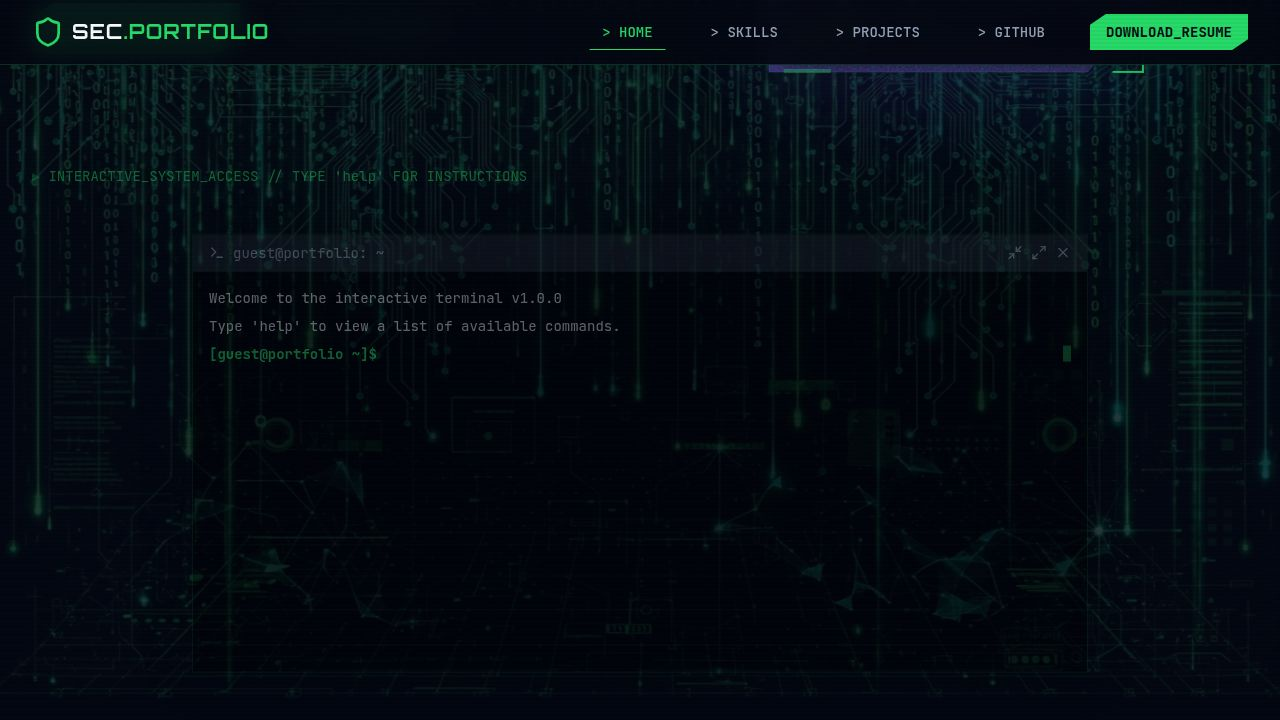
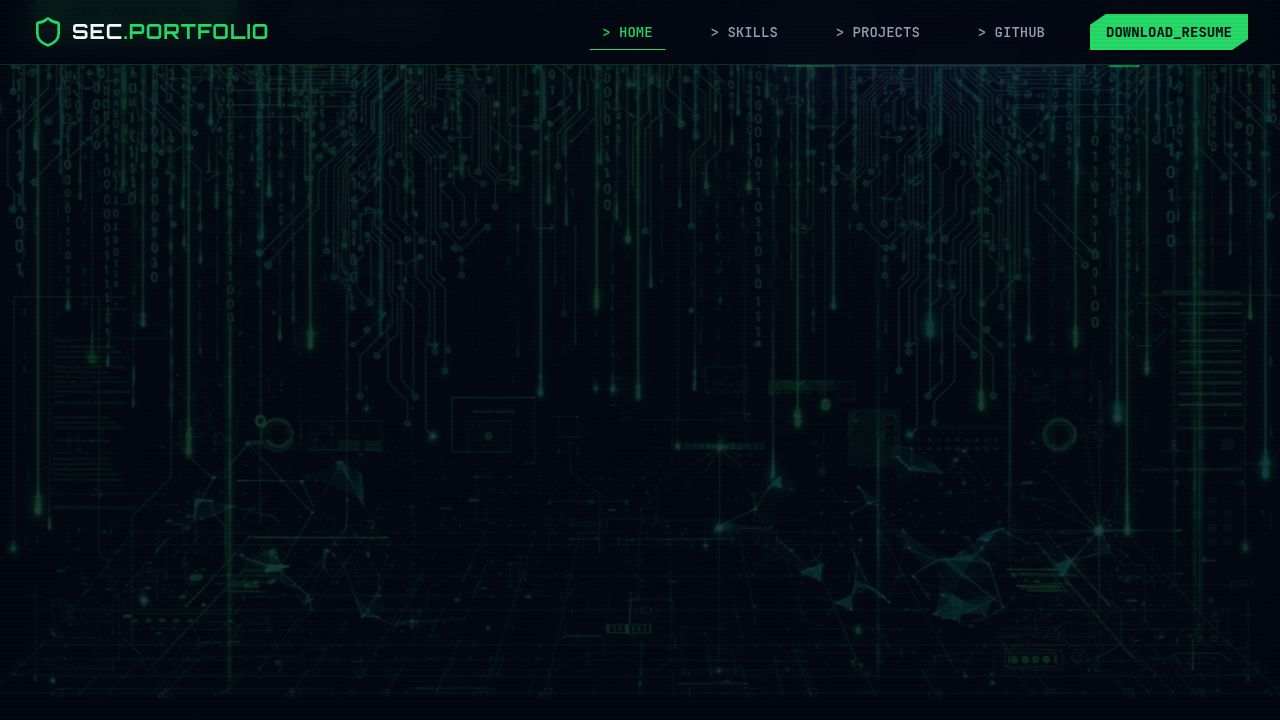
Restore the interactive whoami card and update terminal commands
Replace "SECURE THE FUTURE" heading and status display with an interactive whoami terminal card, including updated commands and professional details.

Replit-Commit-Author: Agent
Replit-Commit-Session-Id: d9829147-8b4d-47b9-a2e0-29cf5eb42337
Replit-Commit-Checkpoint-Type: full_checkpoint
Replit-Commit-Event-Id: 51227539-02d4-4bf1-9b71-4f3929cbaac4
Replit-Commit-Screenshot-Url: https://storage.googleapis.com/screenshot-production-us-central1/c8f694e6-4649-4a96-990e-c1d96851a21d/d9829147-8b4d-47b9-a2e0-29cf5eb42337/ciMmzyu
Replit-Helium-Checkpoint-Created: true

diff --git a/client/src/pages/Home.tsx b/client/src/pages/Home.tsx
@@ -40,18 +40,29 @@ export function Home() {
               animate={{ opacity: 1, x: 0 }}
               transition={{ duration: 0.8 }}
             >
-              <div className="inline-block px-3 py-1 mb-4 border border-primary/50 bg-primary/10 text-primary font-mono text-sm rounded-sm">
-                STATUS: ONLINE
+              <div className="bg-card/80 border border-primary/20 p-6 rounded-lg backdrop-blur-md shadow-[0_0_30px_rgba(34,197,94,0.1)] mb-8">
+                <div className="flex items-center gap-2 mb-4 border-b border-primary/20 pb-2">
+                  <Terminal className="text-primary w-5 h-5" />
+                  <span className="text-sm font-mono text-muted-foreground">terminal@user:~</span>
+                </div>
+                <div className="font-mono text-sm space-y-2">
+                  <p className="text-green-500">$ ./whoami</p>
+                  <p className="text-foreground pl-4">
+                    Name: Syed Shayan Ali<br/>
+                    Role: Cybersecurity Analyst<br/>
+                    Location: United Arab Emirates<br/>
+                    Focus: Red Teaming, SOC Operations
+                  </p>
+                  <p className="text-green-500 mt-4">$ ./list_skills</p>
+                  <div className="pl-4 grid grid-cols-2 gap-x-4 text-foreground/80">
+                    <span>- Python</span>
+                    <span>- Linux</span>
+                    <span>- Wireshark</span>
+                    <span>- Metasploit</span>
+                  </div>
+                  <p className="text-green-500 mt-4 animate-pulse">$ _</p>
+                </div>
               </div>
-              <h1 className="text-5xl md:text-7xl font-display font-bold text-foreground mb-6 leading-tight">
-                <GlitchText text="SECURE" /> THE <br />
-                <span className="text-transparent bg-clip-text bg-gradient-to-r from-primary to-blue-500">
-                  FUTURE
-                </span>
-              </h1>
-              <p className="text-xl text-muted-foreground font-sans max-w-lg mb-8 leading-relaxed border-l-2 border-primary/30 pl-6">
-                I am a Cybersecurity Student passionate about network defense, ethical hacking, and building secure systems.
-              </p>
               
               <div className="flex flex-wrap gap-4">
                 <a href="/projects" className="px-8 py-3 bg-primary text-background font-mono font-bold hover:bg-white transition-colors clip-path-polygon" style={{ clipPath: "polygon(10% 0, 100% 0, 100% 70%, 90% 100%, 0 100%, 0 30%)" }}>
